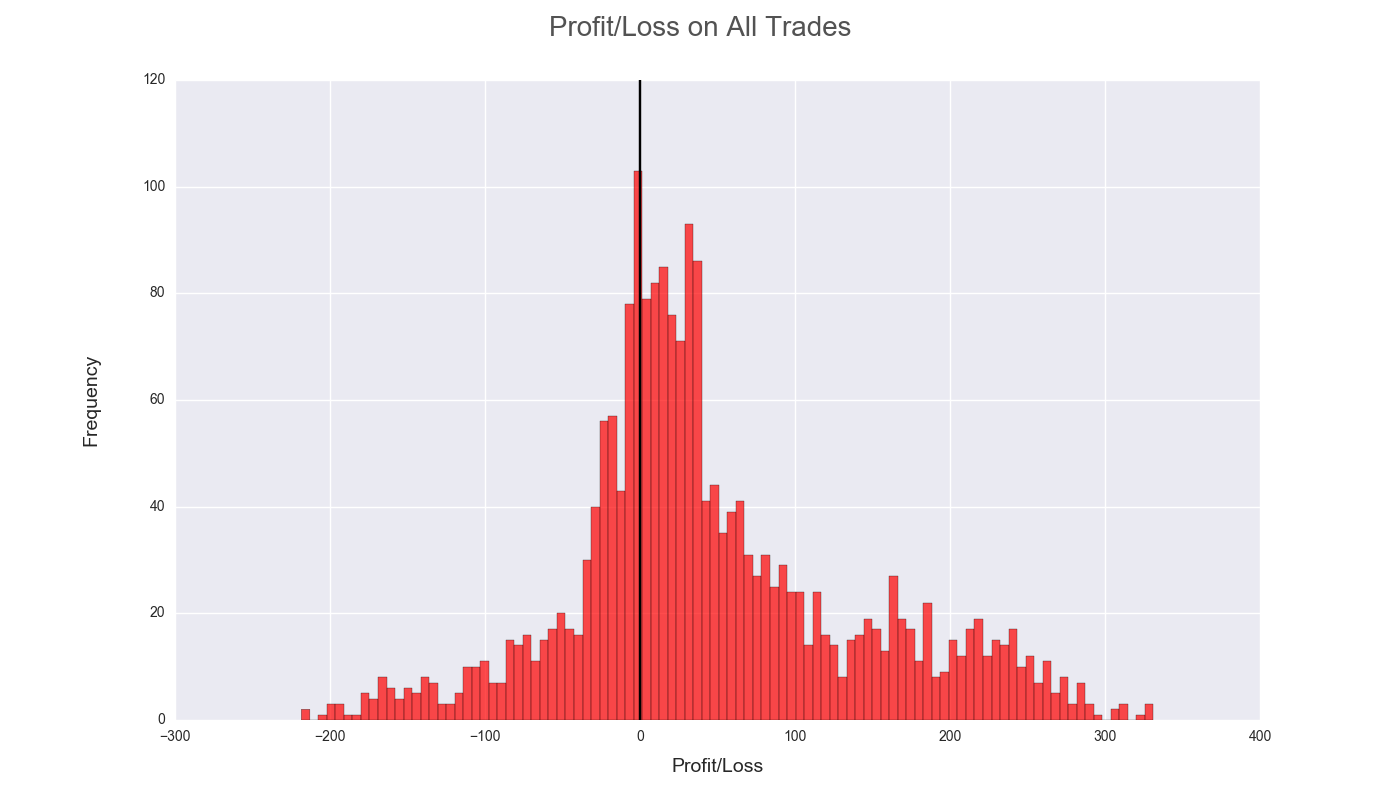
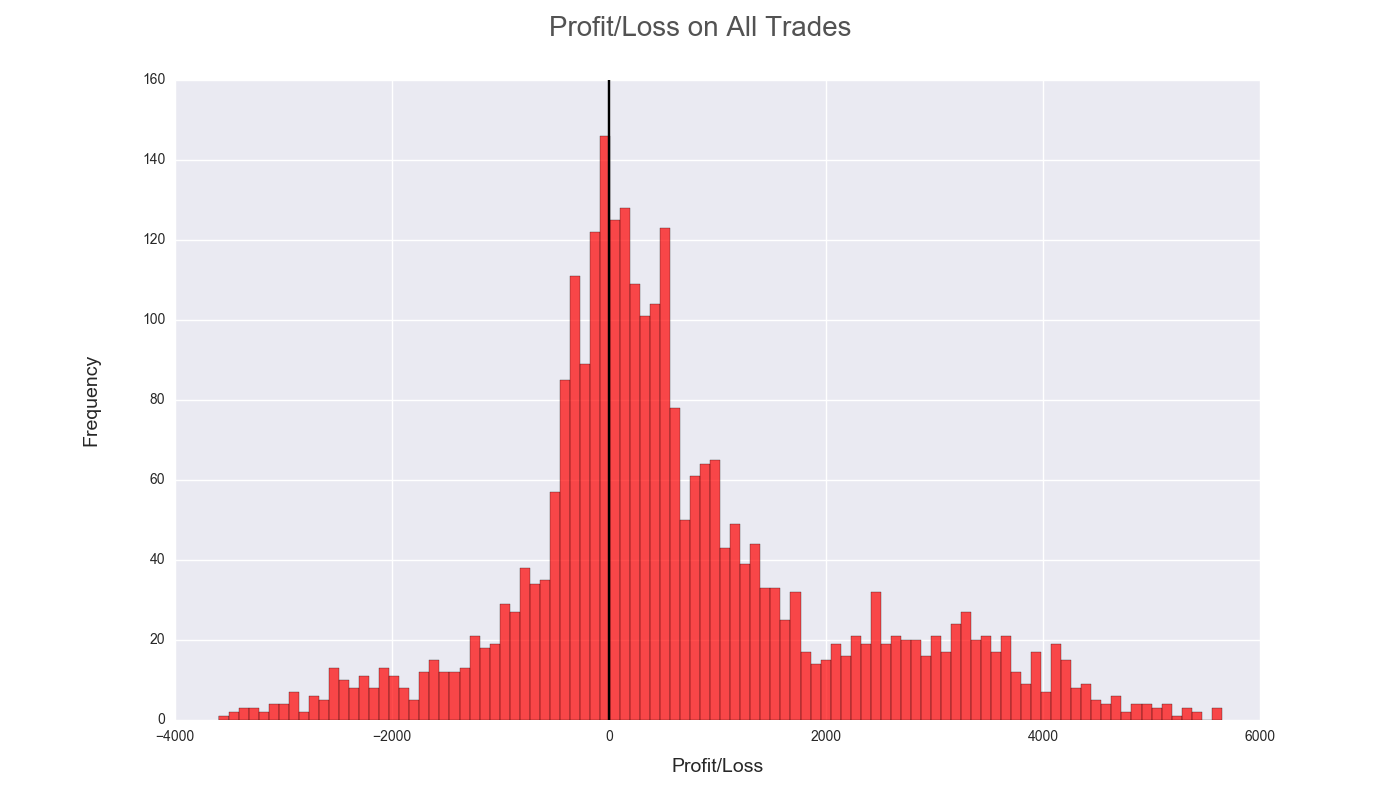
Adding legend to six_month_net

diff --git a/Corn Models/six_month_net.py b/Corn Models/six_month_net.py
@@ -110,7 +110,7 @@ def plot_predictions():
     ax.fill_between(dates_plot, test_preds_plot, (test_preds_plot + 2*test_preds[1]), color='red', alpha=.4)
     ax.fill_between(dates_plot, test_preds_plot, (test_preds_plot + -2*test_preds[1]), color='red', alpha=.4)
 
-
+    plt.legend(loc=2)
     plt.ylabel('Corn Futures Price ($)', size=14, labelpad=30)
     plt.suptitle('Neural Network Predictions\nUsing 6 Month Lagged Features', size=20, alpha=.8)
     # plt.show()
@@ -261,5 +261,5 @@ if __name__ == '__main__':
     # current_upper_bound = current_prediction + test_preds[1]
     # plot_current_pred()
 
-    total_profit, total_return, annualized_return, max_loss = trading_results(strategy='discount', discount=.3)
+    total_profit, total_return, annualized_return, max_loss = trading_results(strategy='discount', discount=.1, leverage=15)
     total_hit_rate, total_trades = trading_results(strategy='hit_rate', discount=.3)
